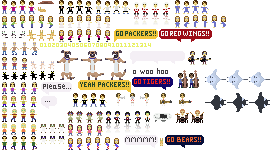
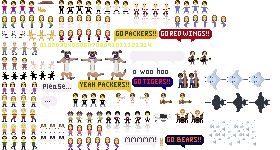
added flipped fish to hawaii scene

Changed region(s): [[0.7429, 0.8, 0.9143, 0.9867], [0.7429, 0.9333, 0.7714, 0.96]]

diff --git a/lib/board/Actor.js b/lib/board/Actor.js
@@ -58,10 +58,22 @@
 			var offset = this.framesConfig.offset || L7.p(0, 0);
 			var me = this;
 			var pieceSources = [];
+			var imgWidth = this.framesConfig.src.width;
+			var maxFrame = this._getMaxFrame(this.framesConfig.sets);
 
 			var canvas = document.createElement('canvas');
 			var context = canvas.getContext('2d');
+
+			if(this.framesConfig.flip === 'horizontal') {
+				context.translate(imgWidth, 0);
+				context.scale(-1, 1);
+				offset = L7.p(imgWidth - offset.x - (this.framesConfig.width * maxFrame), offset.y);
+			} else if(this.framesConfig.flip) {
+				throw new Error("can only flip horizontally so far");
+			}
+
 			context.drawImage(this.framesConfig.src, 0, 0);
+			context.restore();
 
 			var anchorOffset = this.framesConfig.anchor;
 			var anchorPosition = this.position;
@@ -74,7 +86,6 @@
 				return L7.p(x, y);
 			}
 
-			var maxFrame = this._getMaxFrame(this.framesConfig.sets);
 			var maxWidth = maxFrame * this.framesConfig.width;
 
 			for (var x = 0; x < maxWidth; x += this.framesConfig.width) {

diff --git a/demo/sarah/boards/Hawaii.js b/demo/sarah/boards/Hawaii.js
@@ -27,8 +27,32 @@
 			offsetTo: -fgBoard.pixelWidth
 		}, spriteFactory, tileSize);
 
+		var fishLeftBoard1 = this._getMantaBoard({
+			from: 'right',
+			actors: [{ n: 'fishGoingLeft', y: 40 }],
+			duration: 11000,
+			delay: 3000,
+			offsetTo: fgBoard.pixelWidth
+		},spriteFactory, tileSize);
+
+		var fishLeftBoard2 = this._getMantaBoard({
+			from: 'right',
+			actors: [{ n: 'fishGoingLeft', y: 48 }],
+			duration: 9000,
+			delay: 7000,
+			offsetTo: fgBoard.pixelWidth
+		},spriteFactory, tileSize);
+
+		var fishRightBoard1 = this._getMantaBoard({
+			from: 'left',
+			actors: [{ n: 'fishGoingRight', y: 28 }],
+			duration: 9000,
+			delay: 3000,
+			offsetTo: -fgBoard.pixelWidth
+		},spriteFactory, tileSize);
+
 		var parallax = new L7.ParallaxBoard({
-			boards: [bgBoard, fgBoard, mantaLeftBoard, mantaRightBoard],
+			boards: [bgBoard, fgBoard, fishRightBoard1, mantaLeftBoard, fishLeftBoard1, mantaRightBoard, fishLeftBoard2],
 			width: 60,
 			height: 60
 		});

diff --git a/demo/sarah/SpriteFactory.js b/demo/sarah/SpriteFactory.js
@@ -4,6 +4,42 @@
 	};
 
 	SAM.SpriteFactory.prototype = {
+		fishGoingLeft: function(position) {
+			return new L7.Actor({
+				framesConfig: {
+					src: this.image,
+					width: 24,
+					height: 26,
+					direction: 'horizontal',
+					sets: [[0], [0, 1]],
+					initialSet: 0,
+					initialFrame: 0,
+					anchor: L7.p(0, 0),
+					offset: L7.p(209, 121)
+				},
+				position: position || L7.p(0, 0)
+			});
+		},
+
+		fishGoingRight: function(position) {
+			return new L7.Actor({
+				framesConfig: {
+					src: this.image,
+					width: 24,
+					height: 26,
+					flip: 'horizontal',
+					direction: 'horizontal',
+					sets: [[0], [0, 1]],
+					initialSet: 0,
+					initialFrame: 0,
+					anchor: L7.p(0, 0),
+					offset: L7.p(209, 121)
+				},
+				position: position || L7.p(0, 0)
+			});
+		},
+
+
 		mantaGoingRight: function(position) {
 			return new L7.Actor({
 				framesConfig: {
